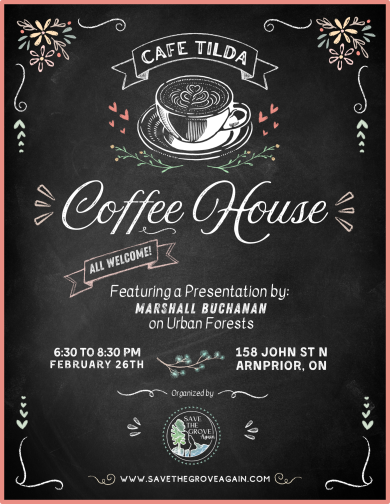
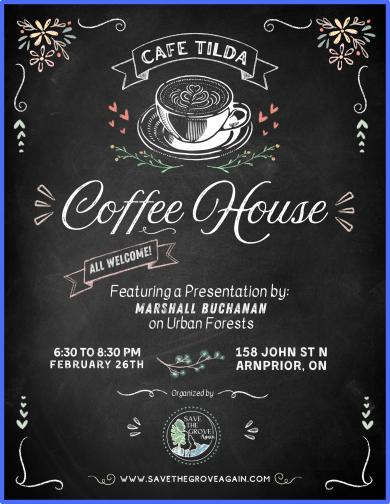
Preview

Changed region(s): [[0.0, 0.0, 1.0, 1.0]]

diff --git a/src/components/Blog/SingleBlog.tsx b/src/components/Blog/SingleBlog.tsx
@@ -11,7 +11,7 @@ const SingleBlog = ({ blog }: { blog: Blog }) => {
           href={blogURL}
           className="relative block aspect-[37/22] w-full"
         >
-          <span className="absolute right-1 bottom-1 z-20 inline-block  items-center justify-center rounded-full bg-primary/80 px-4 py-2 text-sm font-semibold capitalize text-black">
+          <span className="absolute right-1 bottom-1 z-20 inline-block  items-center justify-center rounded-full bg-primary/100 px-4 py-2 text-sm font-semibold capitalize text-black">
             {tags[0]}
           </span>
           <Image 
